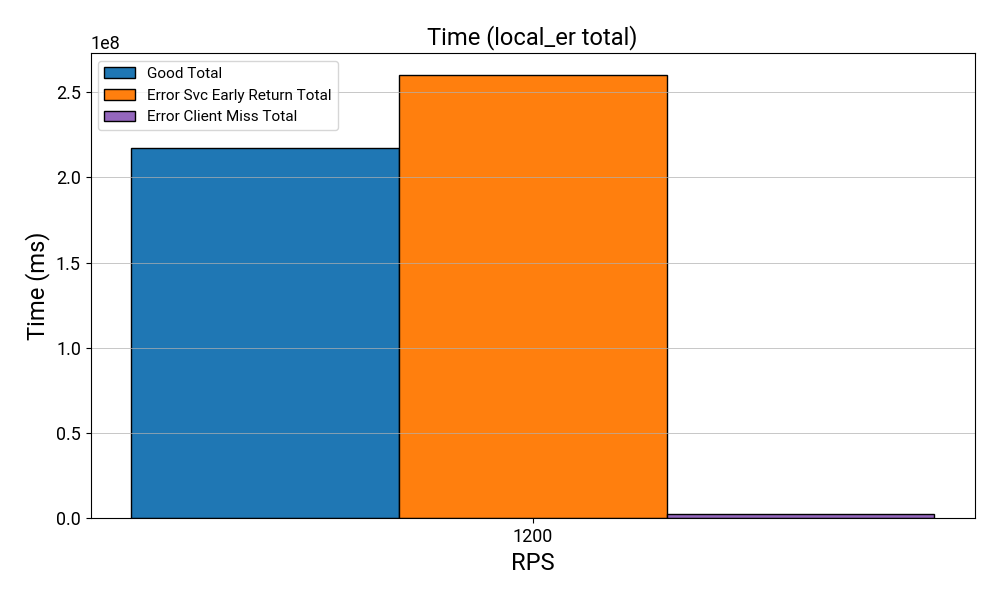
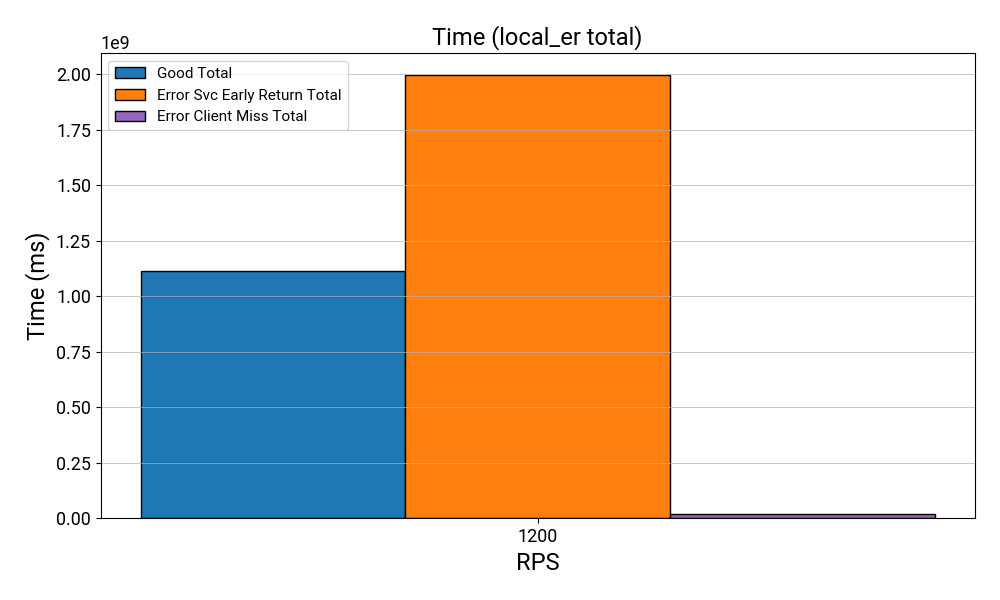
test: Add time tables

diff --git a/reboot-hotel/scripts/plots/plot_time.py b/reboot-hotel/scripts/plots/plot_time.py
@@ -52,7 +52,7 @@ def plot_total() -> None:
     )
 
 
-# plot_total()
+plot_total()
 
 
 def get_time_breakdown(data):
